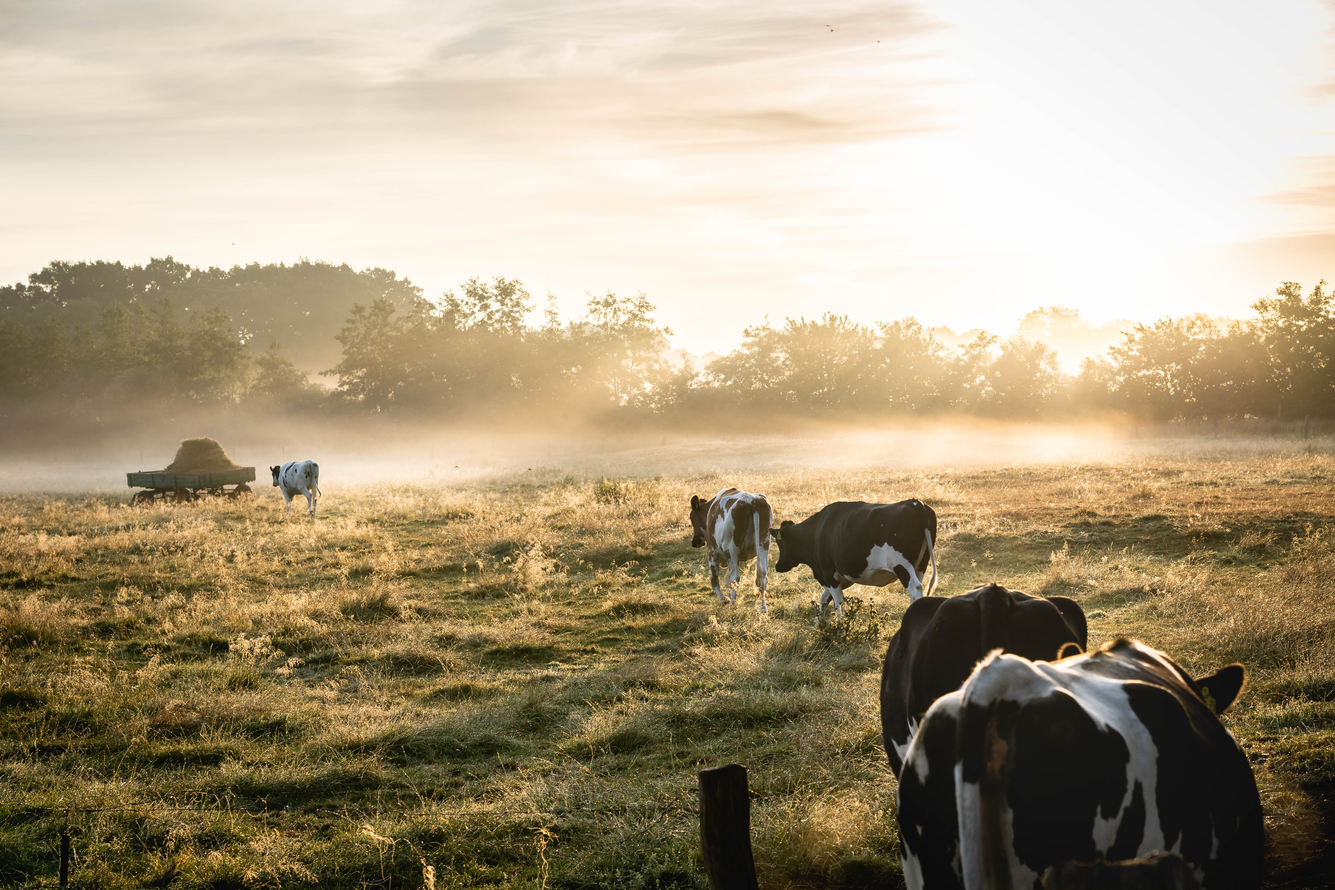
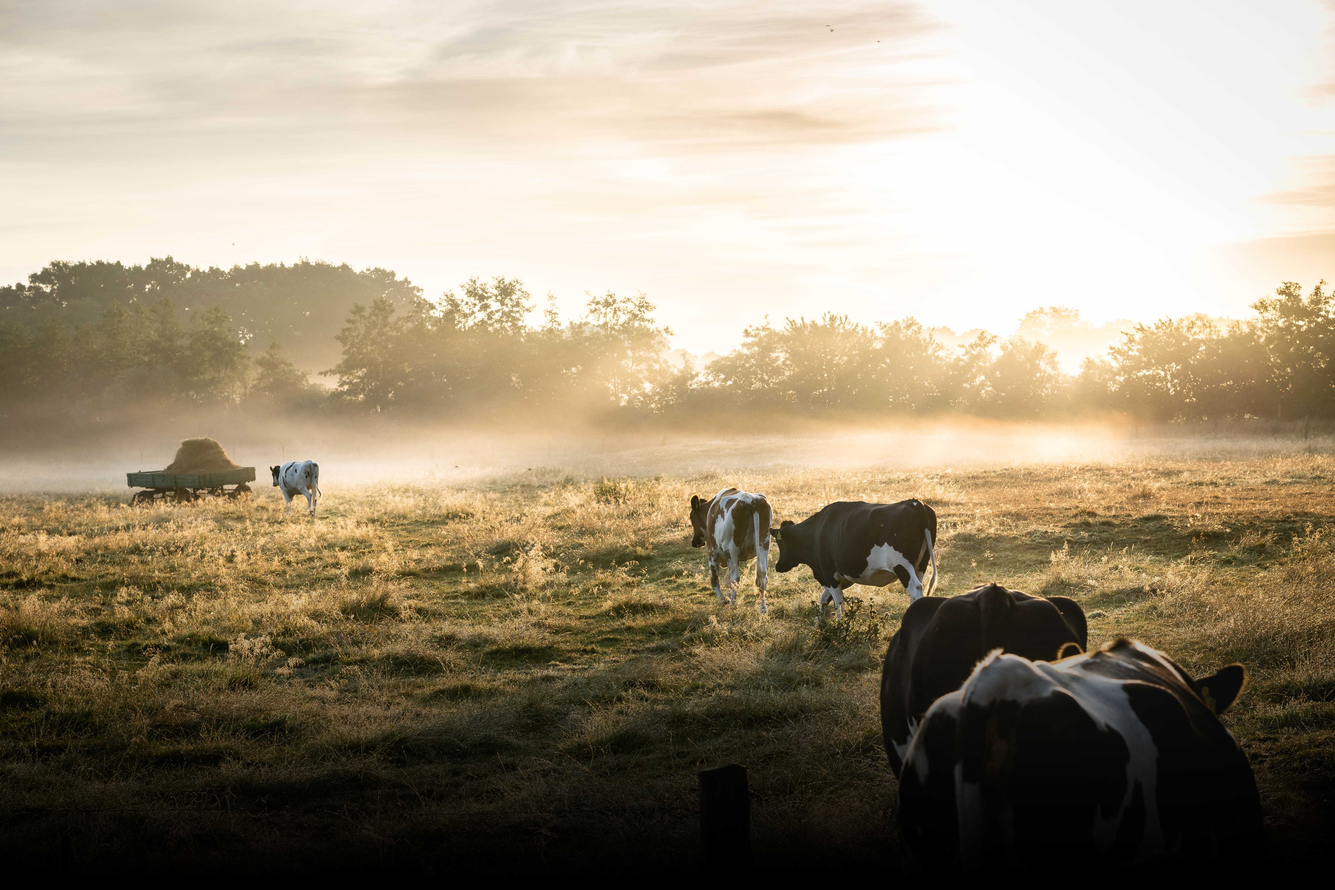
actualizando fondo y detalles

Changed region(s): [[0.0, 0.6562, 1.0, 1.0]]

diff --git a/style.css b/style.css
@@ -3,7 +3,7 @@ body{
     font-size: 22px;
     margin-inline: 3%;
     background-image: url(img/fondo1.jpg);
-    background-color: rgb(180, 180, 180);
+    background-color: rgb(0, 0, 0);
     /*background-blend-mode: soft-light;*/
     background-size: cover;
     background-repeat: no-repeat;

diff --git a/index.html b/index.html
@@ -15,6 +15,6 @@
         <h1>Federico Read</h1>
         <h2>Técnico en Administración</h2>
     </div>
-    <p class="desarrollando">Pagina en desarrollo..</p>    
+    <p class="desarrollando">Pagina en desarrollo..</p>
 </body>
 </html>
